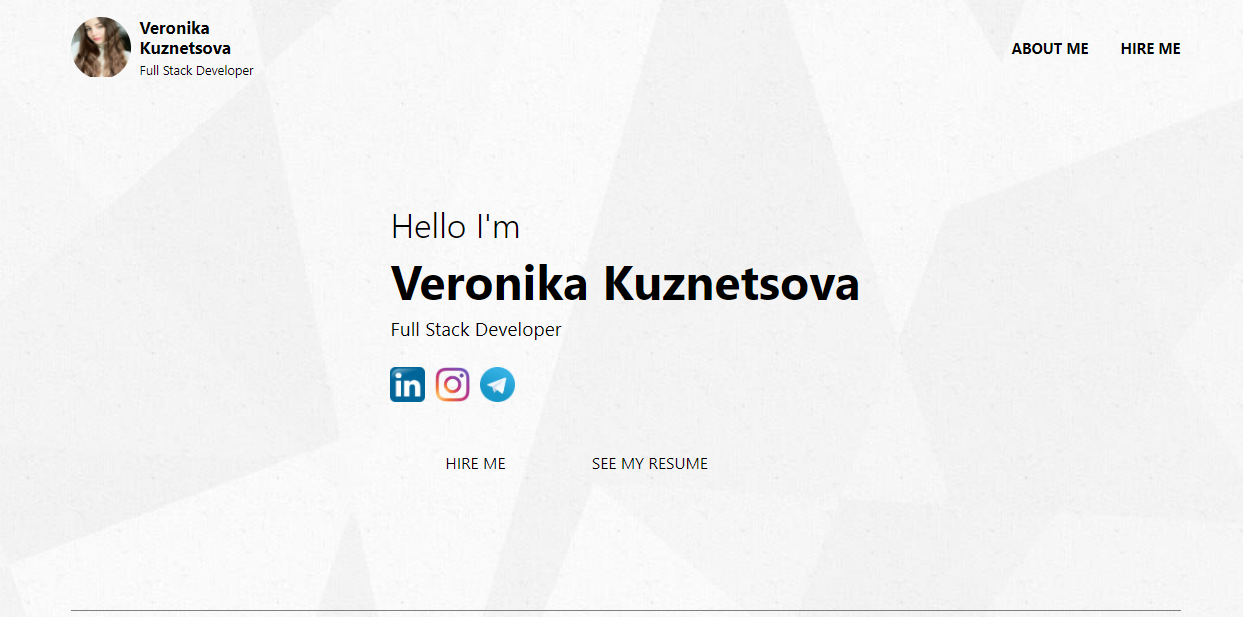
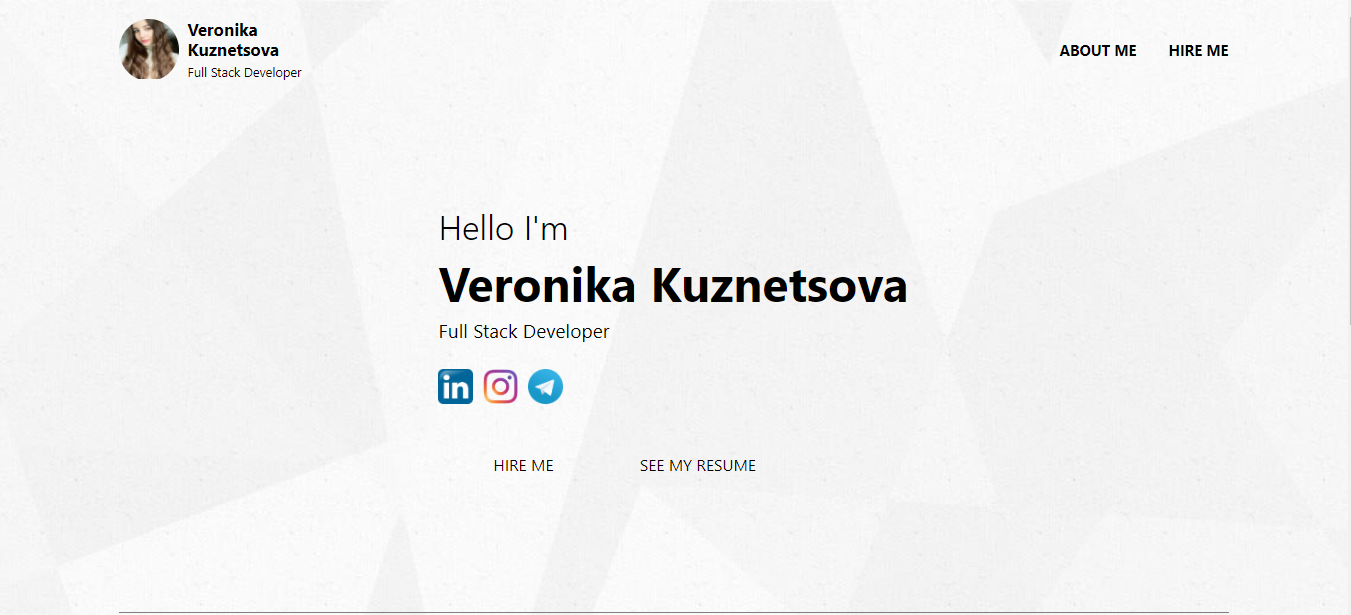
Add new style of project

diff --git a/index.html b/index.html
@@ -46,6 +46,15 @@
   <path d="M9.5 1a.5.5 0 0 1 .5.5v1a.5.5 0 0 1-.5.5h-3a.5.5 0 0 1-.5-.5v-1a.5.5 0 0 1 .5-.5h3zm-3-1A1.5 1.5 0 0 0 5 1.5v1A1.5 1.5 0 0 0 6.5 4h3A1.5 1.5 0 0 0 11 2.5v-1A1.5 1.5 0 0 0 9.5 0h-3z"/>
 </svg>RESUME</a>
         </li>
+
+        <li class="nav-item">
+          <a class="nav-link" aria-current="page" href="#project">
+          	<svg xmlns="http://www.w3.org/2000/svg" width="16" height="16" fill="currentColor" class="bi bi-file-code" viewBox="0 0 16 16">
+  <path d="M6.646 5.646a.5.5 0 1 1 .708.708L5.707 8l1.647 1.646a.5.5 0 0 1-.708.708l-2-2a.5.5 0 0 1 0-.708l2-2zm2.708 0a.5.5 0 1 0-.708.708L10.293 8 8.646 9.646a.5.5 0 0 0 .708.708l2-2a.5.5 0 0 0 0-.708l-2-2z"/>
+  <path d="M2 2a2 2 0 0 1 2-2h8a2 2 0 0 1 2 2v12a2 2 0 0 1-2 2H4a2 2 0 0 1-2-2V2zm10-1H4a1 1 0 0 0-1 1v12a1 1 0 0 0 1 1h8a1 1 0 0 0 1-1V2a1 1 0 0 0-1-1z"/>
+</svg>MY PROJECT</a>
+        </li>
+
       </ul>
 
       <ul class="navbar-nav me-auto mb-2 mb-lg-0">
@@ -201,7 +210,7 @@ CONTACT</a>
 </div> 
 
 
-<div class="row row-cols-1 row-cols-md-2 g-4">
+<div class="row row-cols-1 row-cols-md-2 g-4" id='project'>
   <div class="col">
     <div class="card">
       <img src="images/cite1.png" class="card-img-top" alt="...">
@@ -210,7 +219,9 @@ CONTACT</a>
         <p class="card-text"> <a href='https://github.com/veronikuznetsova/veronikuznetsova.github.io' type="button" class="btn btn-outline-secondary">There you can see all code</a></p>
       </div>
     </div>
+   </div>
 
+   <div class="col">
     <div class="card">
       <img src="images/cite2.png" class="card-img-top" alt="...">
       <div class="card-body">
@@ -218,6 +229,7 @@ CONTACT</a>
         <p class="card-text"> <a href='https://github.com/veronikuznetsova/resumecite.github.io' type="button" class="btn btn-outline-secondary">There you can see all code</a></p>
       </div>
     </div>
+</div>
 
   </div>
   

diff --git a/css/style.css b/css/style.css
@@ -9,27 +9,27 @@
 
 .name{
 	position: absolute; 
-    top: 15%;
+    top: 10%;
     margin-left: 8%;
     color: #000000!important;
 }
 
 .prof{
 	position: absolute;
-	top:21%;
+	top:16%;
 	margin-left: 8%;
 	color: #FFFFFF!important;
 }
 
 .btn-1{
 	position: absolute;
-	top:40%;
+	top:35%;
 	margin-left: 8%;
 }
 
 .email{
 	position: absolute;
-	top:50%;
+	top:45%;
 	margin-left: 8%;
 	color: black!important;
 }
@@ -181,9 +181,9 @@ margin-left: 50px;
 }
 .card-text{
 	text-align: center;
-	margin-top: 1px!important;
+	margin-bottom: 10px!important;
 }
 
 .card-title{
-	margin-bottom: 1px!important;
+	padding: 0 0 20px;
 }
